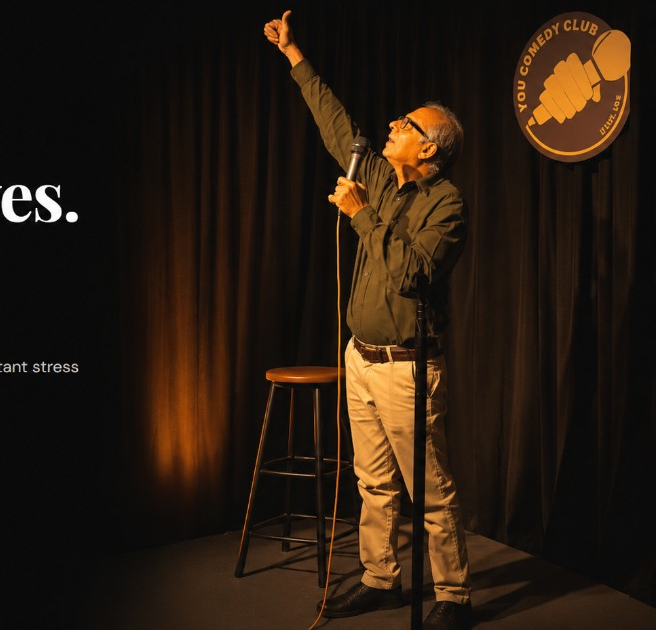
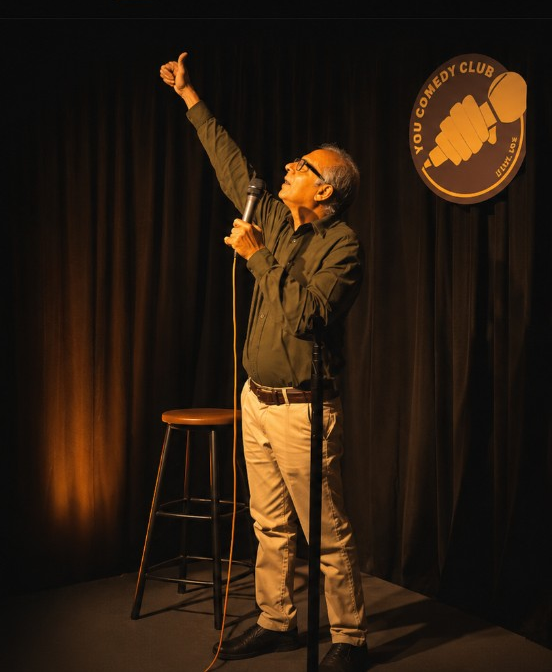
update site

diff --git a/index.html b/index.html
@@ -246,25 +246,28 @@
 
     .hero__photo-wrap {
       position: absolute;
-      right: -2%;
+      right: 0;
       bottom: 0;
-      width: min(62vw, 780px);
-      height: min(92vh, 900px);
+      width: min(68vw, 860px);
+      height: min(96vh, 960px);
       z-index: 1;
       pointer-events: none;
+      display: flex;
+      align-items: flex-end;
+      justify-content: flex-end;
     }
 
     .hero__photo {
       width: 100%;
       height: 100%;
-      object-fit: cover;
-      object-position: 58% bottom;
+      object-fit: contain;
+      object-position: right bottom;
       -webkit-mask-image:
-        linear-gradient(to left, #000 72%, transparent 100%),
-        linear-gradient(to bottom, #000 88%, transparent 100%);
+        linear-gradient(to left, #000 58%, transparent 100%),
+        linear-gradient(to bottom, #000 92%, transparent 100%);
       mask-image:
-        linear-gradient(to left, #000 72%, transparent 100%),
-        linear-gradient(to bottom, #000 88%, transparent 100%);
+        linear-gradient(to left, #000 58%, transparent 100%),
+        linear-gradient(to bottom, #000 92%, transparent 100%);
       -webkit-mask-composite: source-in;
       mask-composite: intersect;
     }
@@ -273,8 +276,8 @@
       position: absolute;
       inset: 0;
       background:
-        linear-gradient(90deg, #080808 0%, transparent 28%),
-        linear-gradient(180deg, transparent 75%, rgba(8, 8, 8, 0.85) 100%);
+        linear-gradient(90deg, #080808 0%, transparent 22%),
+        linear-gradient(180deg, transparent 82%, rgba(8, 8, 8, 0.75) 100%);
       z-index: 2;
       pointer-events: none;
     }
@@ -981,17 +984,19 @@
         position: relative;
         right: auto;
         width: 100%;
-        height: 52vw;
-        min-height: 280px;
-        max-height: 420px;
-        margin-bottom: -2rem;
+        height: auto;
+        min-height: 360px;
+        max-height: none;
+        margin-bottom: -1.5rem;
         order: -1;
       }
 
       .hero__photo {
-        object-position: center 20%;
-        -webkit-mask-image: linear-gradient(to bottom, #000 80%, transparent 100%);
-        mask-image: linear-gradient(to bottom, #000 80%, transparent 100%);
+        object-fit: contain;
+        object-position: center bottom;
+        max-height: 72vw;
+        -webkit-mask-image: linear-gradient(to bottom, #000 86%, transparent 100%);
+        mask-image: linear-gradient(to bottom, #000 86%, transparent 100%);
       }
 
       .hero__photo-fade {
@@ -1068,8 +1073,8 @@
         class="hero__photo"
         src="images/prashant-hero.png"
         alt="Prashant Gandhi speaking on stage with a microphone"
-        width="656"
-        height="630"
+        width="758"
+        height="672"
       />
       <div class="hero__photo-fade" aria-hidden="true"></div>
     </div>